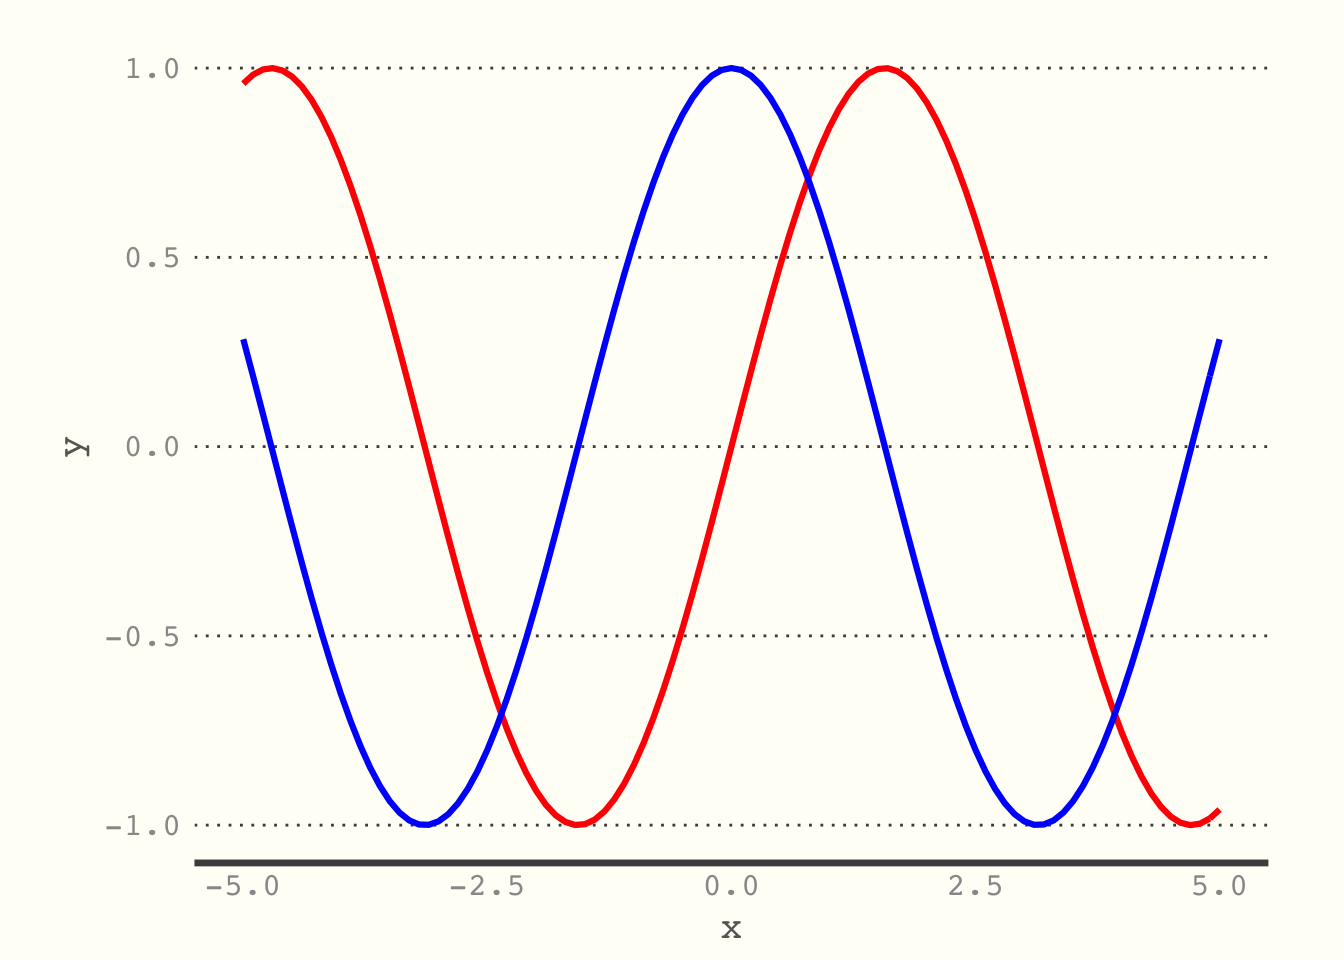
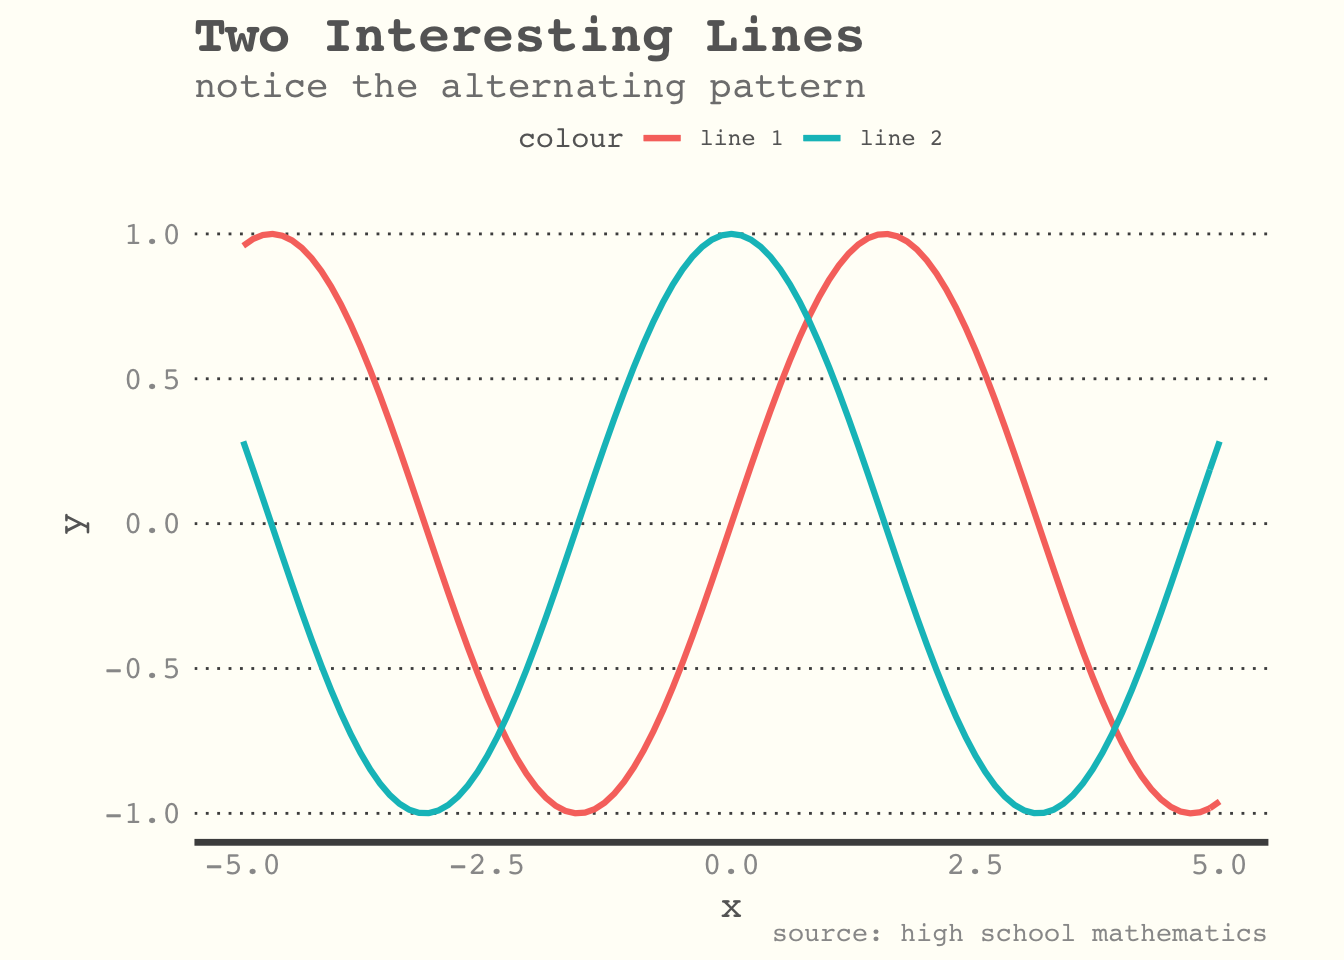
Added theme_newgrey

diff --git a/README.md b/README.md
@@ -32,12 +32,12 @@ library(TivD)
 df = cbind(GPdata[, c('gem', 'prov')], count = rpois(352, 100))
 head(df)
 ##           gem      prov count
-## 1   Eemsdelta Groningen   104
-## 2   Groningen Groningen    86
-## 3      Almere Flevoland   104
-## 4 Stadskanaal Groningen   116
-## 5     Veendam Groningen   102
-## 6    Zeewolde Flevoland   105
+## 1   Eemsdelta Groningen   108
+## 2   Groningen Groningen    97
+## 3      Almere Flevoland   111
+## 4 Stadskanaal Groningen    95
+## 5     Veendam Groningen   107
+## 6    Zeewolde Flevoland    96
 ```
 
 To plot the counts per Dutch municipality, you can use the `NLDgem`
@@ -55,7 +55,6 @@ dataset in the appropriate format.
 
 ``` r
 df.prov <- dplyr::summarise( group_by(df, prov), count = sum(count))
-## `summarise()` ungrouping output (override with `.groups` argument)
 NLDprov(df.prov, title = 'Sum of Poisson', varname = 'count')
 ```
 
@@ -67,8 +66,10 @@ To illustrate the themes, consider the following simple plot
 
 ``` r
 p <- ggplot(data.frame(x = -5:5), aes( x = x)) +
-  stat_function( fun = function(x) sin(x), size = 1.1, color = 'red') +
-  stat_function( fun = function(x) cos(x), size = 1.1, color = 'blue')
+  stat_function(aes(color = 'line 1'), fun = function(x) sin(x), size = 1.1) +
+  stat_function(aes(color = 'line 2'), fun = function(x) cos(x), size = 1.1) +
+  labs(title = 'Two Interesting Lines', subtitle = 'notice the alternating pattern',
+       caption = 'source: high school mathematics')
 ```
 
 ### Notepad (`theme_notepad`)
@@ -79,7 +80,16 @@ p + theme_notepad()
 
 <img src="README_figs/README-unnamed-chunk-8-1.png" width="672" />
 
+### Grey (`theme_newgrey`)
+
+``` r
+p + theme_newgrey()
+```
+
+<img src="README_figs/README-unnamed-chunk-9-1.png" width="672" />
+
 # Other
 
   - setwd\_here()
   - GPdata
+  - clean()
